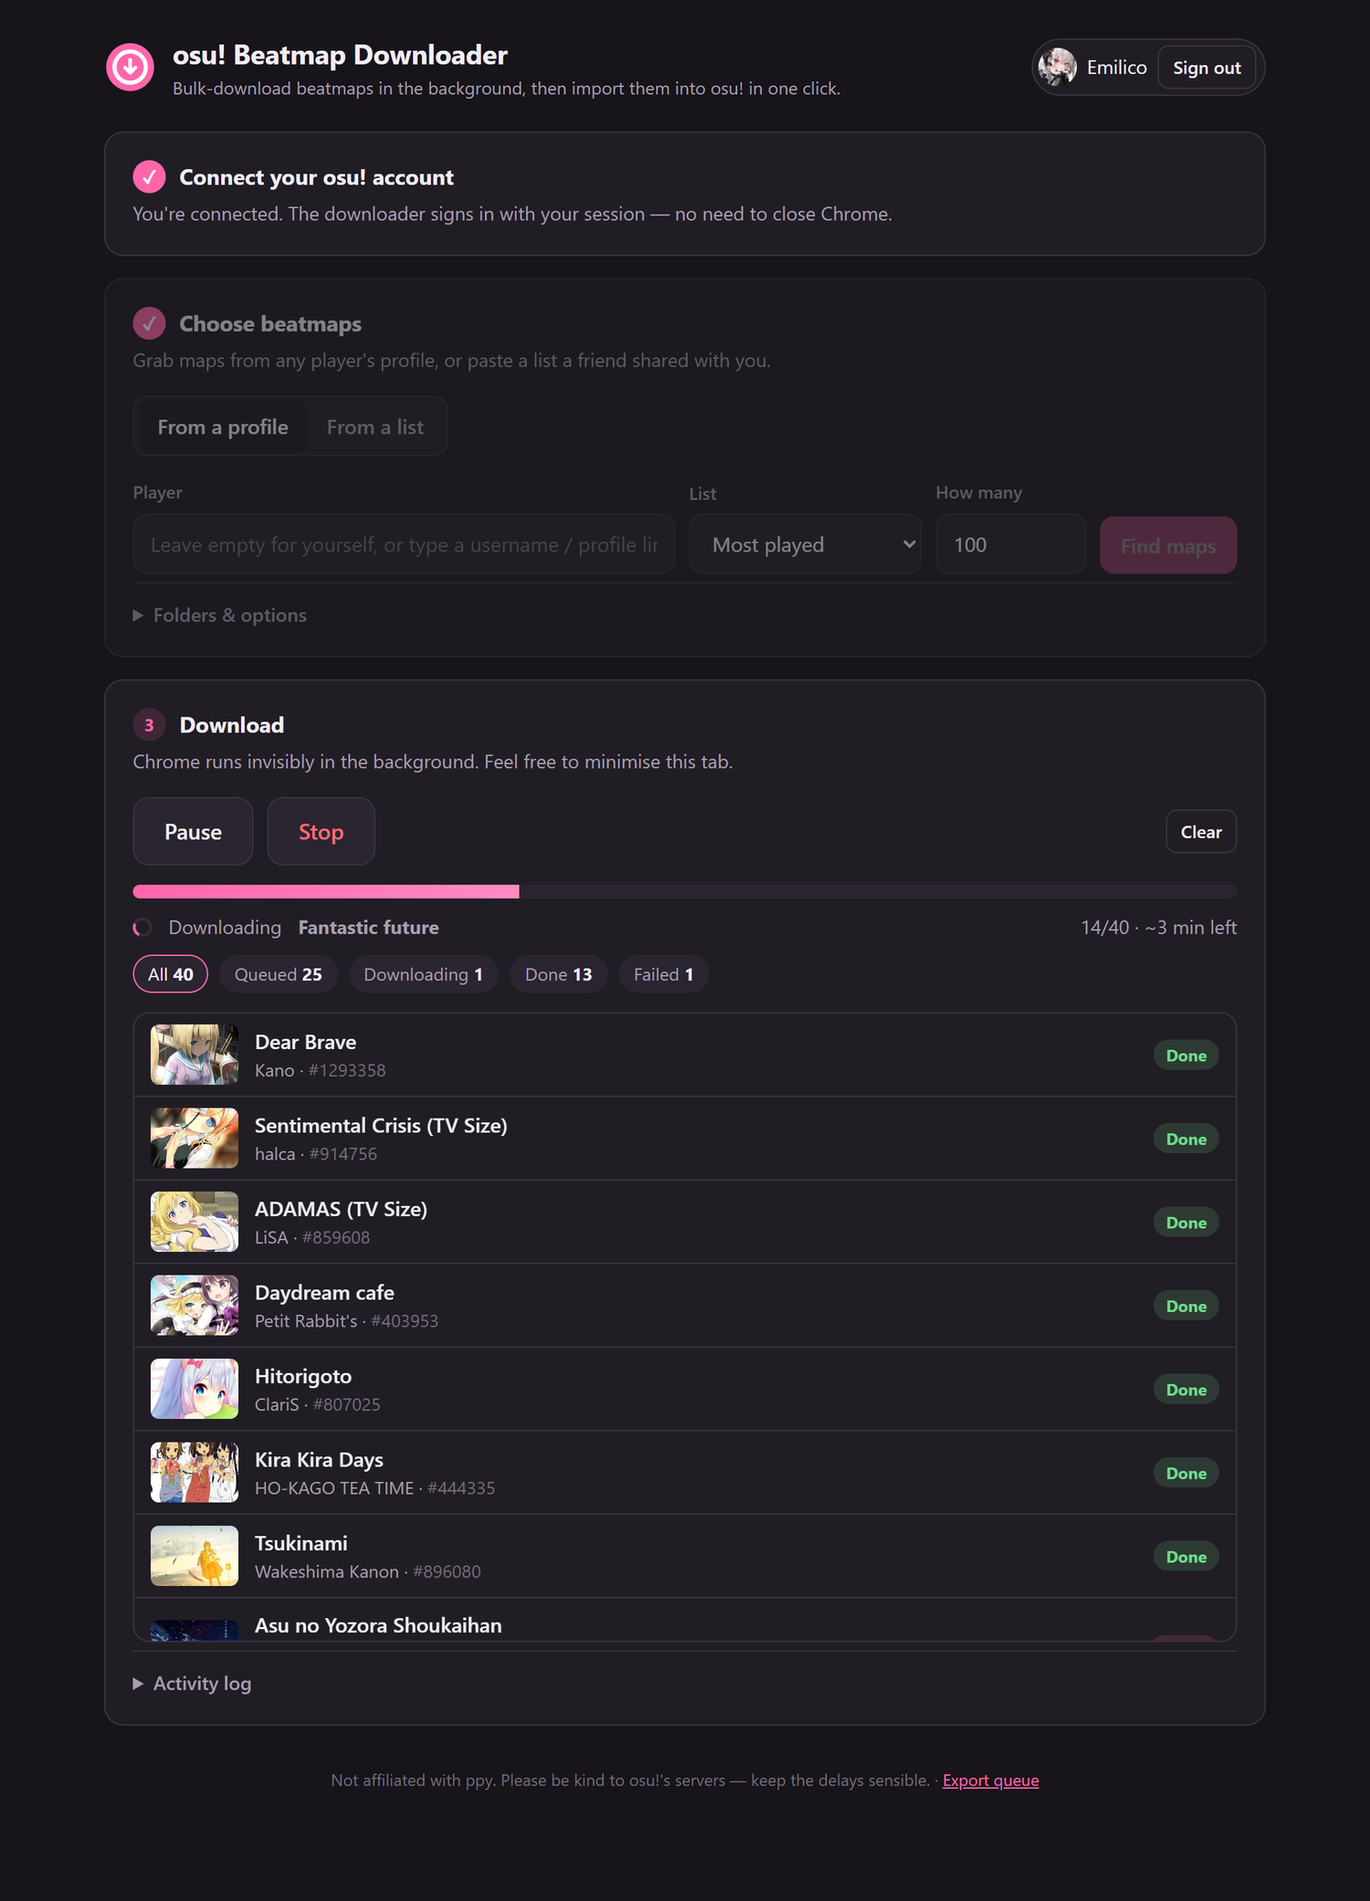
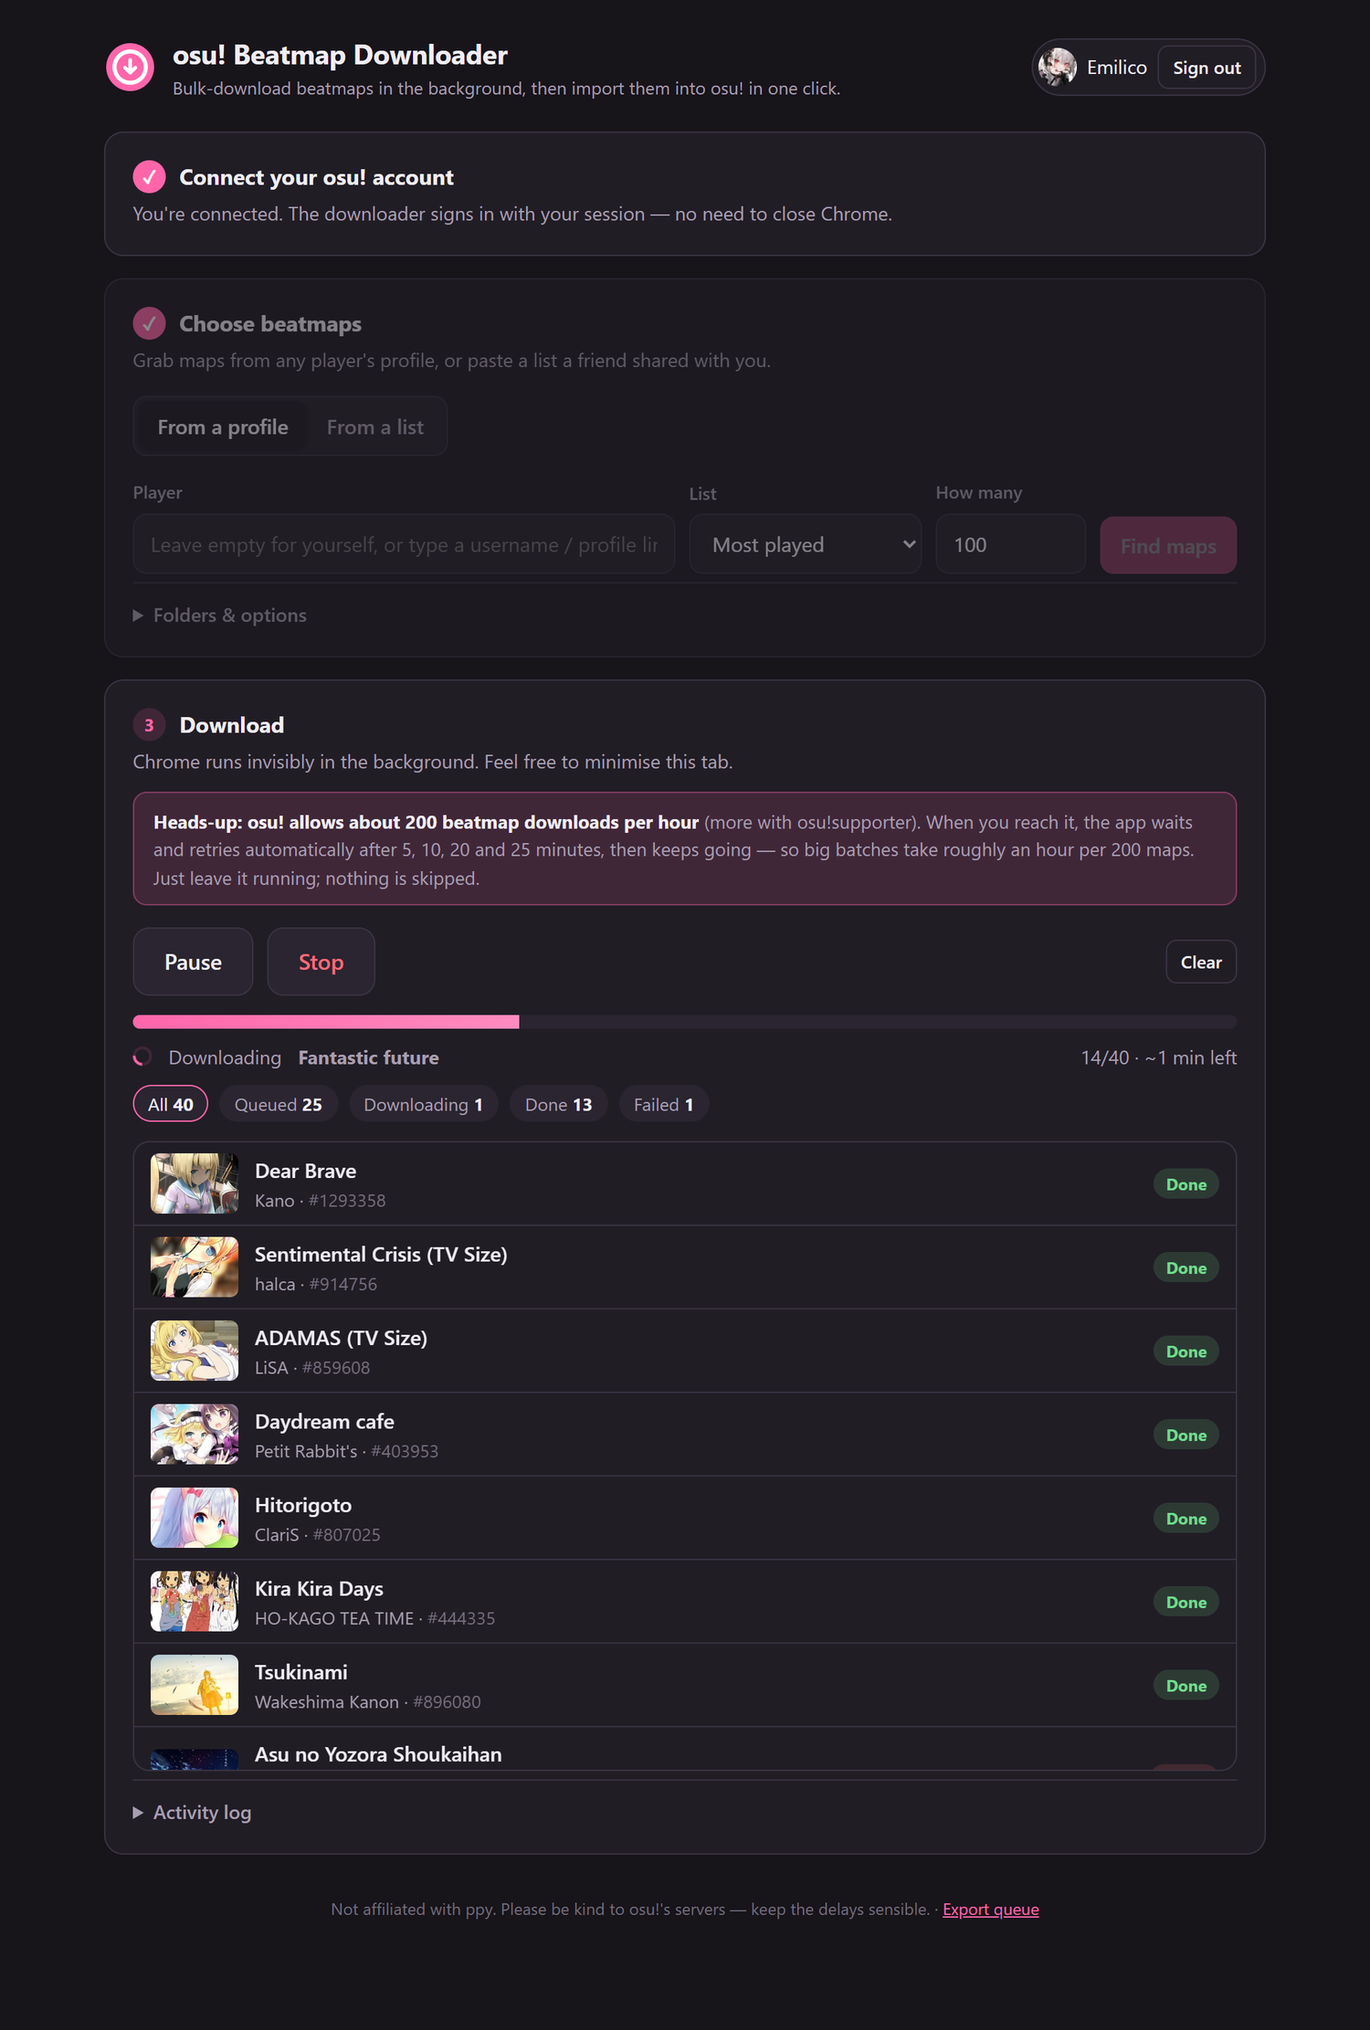
Retry osu!'s hourly download limit on a 5/10/20/25 min cycle
osu! allows about 200 beatmap downloads per rolling hour (more for
supporters) and answers 429 "too many requests" beyond that.

- When refused, keep the same map and retry after 5, 10, 20 and 25
  minutes (an hour in total), then start the cycle again
- Detect the refusal page right away instead of after 10 seconds
- Time-left estimate now simulates the waits between batches, and
  learns a higher limit for supporters
- Status line shows when the next retry happens
- Disclaimer about the limit in the app, the README and the release
  readme; refreshed screenshots

diff --git a/web/index.html b/web/index.html
@@ -112,13 +112,18 @@ kbd { background: var(--panel); border: 1px solid var(--line); border-bottom-wid
   line-height: 1.5; text-align: left; box-shadow: 0 8px 24px rgba(0,0,0,.3); cursor: default; }
 .tip:hover .tip-body, .tip:focus .tip-body, .tip:focus-within .tip-body { display: block; }
 
+.notice { background: var(--pink-soft); border: 1px solid color-mix(in srgb, var(--pink) 35%, transparent);
+  border-radius: 10px; padding: 10px 14px; font-size: 13.5px; color: var(--muted); margin: -4px 0 16px; }
+.notice b { color: var(--text); }
+.waiting { color: var(--yellow); }
+
 .progress { height: 10px; background: var(--panel-2); border-radius: 999px; overflow: hidden; margin: 14px 0 10px; }
 .progress > div { height: 100%; width: 0; background: linear-gradient(90deg, var(--pink), var(--pink-2)); transition: width .4s; }
 .stats { display: flex; gap: 8px; flex-wrap: wrap; font-size: 13px; }
 .stat { background: var(--panel-2); border-radius: 999px; padding: 3px 10px; color: var(--muted); border: 1px solid transparent; cursor: pointer; }
 .stat b { color: var(--text); font-variant-numeric: tabular-nums; }
 .stat.on { border-color: var(--pink); color: var(--text); }
-.now { display: flex; gap: 12px; align-items: center; min-height: 20px; color: var(--muted); font-size: 14px; }
+.now { display: flex; flex-wrap: wrap; gap: 4px 12px; align-items: center; min-height: 20px; color: var(--muted); font-size: 14px; }
 .spinner { width: 14px; height: 14px; border: 2px solid var(--pink-soft); border-top-color: var(--pink); border-radius: 50%; animation: spin .8s linear infinite; flex: none; }
 @keyframes spin { to { transform: rotate(360deg); } }
 
@@ -311,7 +316,7 @@ footer { color: var(--dim); font-size: 12px; text-align: center; margin-top: 30p
         <div><label class="f">Seconds between maps</label><input type="number" min="0" step="0.5" data-opt="delay"></div>
         <div><label class="f">Rest after every … maps</label><input type="number" min="1" data-opt="batch"></div>
         <div><label class="f">Rest length (s)</label><input type="number" min="0" data-opt="rest"></div>
-        <div><label class="f">Cooldown when rate limited (s)</label><input type="number" min="0" data-opt="cooldown"></div>
+        <div><label class="f">Pause after 3 failures in a row (s)</label><input type="number" min="0" data-opt="cooldown"></div>
       </div>
       <div class="help">
         <b>Missing some maps?</b> Turn on <i>Show explicit content</i> in your
@@ -327,6 +332,11 @@ footer { color: var(--dim); font-size: 12px; text-align: center; margin-top: 30p
 <section class="card" id="step3">
   <h2><span class="n" id="n3">3</span> Download</h2>
   <p class="sub">Chrome runs invisibly in the background. Feel free to minimise this tab.</p>
+  <div class="notice">
+    <b>Heads-up: osu! allows about 200 beatmap downloads per hour</b> (more with osu!supporter).
+    When you reach it, the app waits and retries automatically after 5, 10, 20 and 25 minutes, then keeps going —
+    so big batches take roughly an hour per 200 maps. Just leave it running; nothing is skipped.
+  </div>
   <div class="row" style="align-items:center">
     <button class="btn primary big" id="startBtn" onclick="act('start')">Start downloading</button>
     <button class="btn big hidden" id="pauseBtn" onclick="act('pause')">Pause</button>
@@ -523,11 +533,24 @@ function render() {
   if (S.busy) now = `<div class="spinner"></div>${esc(S.busy)}`;
   else if (S.running && S.paused) now = '⏸ Paused';
   else if (S.running) {
-    const perMap = (S.opts.delay || 0) + 4 + (S.opts.rest || 0) / (S.opts.batch || 60);
-    const eta = fmtTime((c.queued || 0) * perMap);
-    now = `<div class="spinner"></div>` + (cur ? `Downloading <b>${esc(cur.title || '#' + cur.id)}</b>` : 'Working…')
-        + ` <span class="grow"></span> ${finished}/${want}${eta ? ' · ~' + eta + ' left' : ''}`;
-  } else if (total) now = `${total} map${total === 1 ? '' : 's'} in queue` + (c.have ? ` · ${c.have} skipped because you already have them` : '');
+    const j = S.job || {};
+    const eta = fmtTime(j.eta);
+    const etaText = eta ? ` · ~${eta} left` + (j.hourly_limit && (c.queued || 0) > 0 && j.eta > 3600 ? ' incl. osu! limit waits' : '') : '';
+    if (j.limited && j.retry_at) {
+      const at = new Date(j.retry_at * 1000).toLocaleTimeString([], {hour: 'numeric', minute: '2-digit'});
+      now = `<div class="spinner"></div><span class="waiting">osu!'s hourly download limit reached — retrying at <b>${at}</b> (attempt ${j.retry_attempt} of ${j.retry_attempts})</span>`
+          + ` <span class="grow"></span> ${finished}/${want}${etaText}`;
+    } else {
+      now = `<div class="spinner"></div>` + (cur ? `Downloading <b>${esc(cur.title || '#' + cur.id)}</b>` : 'Working…')
+          + ` <span class="grow"></span> ${finished}/${want}${etaText}`;
+    }
+  } else if (total) {
+    const n = c.queued || 0;
+    // ~6 s per map, plus an hour's wait for every 200 maps after the first 200
+    const est = n ? fmtTime(n * ((S.opts.delay || 0) + 3) + Math.floor((n - 1) / 200) * 3600) : '';
+    now = `${total} map${total === 1 ? '' : 's'} in queue` + (c.have ? ` · ${c.have} skipped because you already have them` : '')
+        + (est ? ` · about ${est} to download` : '');
+  }
   $('now').innerHTML = now;
   $('n3').classList.toggle('ok', !S.running && !!c.done && !c.queued);
 

diff --git a/osu_core.py b/osu_core.py
@@ -192,6 +192,24 @@ def _duration(seconds):
     return f"{seconds / 60:.0f} min" if seconds >= 60 else f"{seconds:.0f} s"
 
 
+# osu! allows a fixed number of downloads per rolling hour (200 for regular accounts,
+# more for osu!supporters). When it refuses, retry on this cycle — it adds up to an hour,
+# so the 4th retry lands after the window has rolled over. Then start again at 5 min.
+QUOTA_RETRY_WAITS = (5 * 60, 10 * 60, 20 * 60, 25 * 60)
+DEFAULT_HOURLY_LIMIT = 200
+
+
+def _resume_time(refused_at, batch_start):
+    """First retry (on the QUOTA_RETRY_WAITS cycle) after the batch's hour has rolled over."""
+    free_at = batch_start + 3600
+    t, i = refused_at, 0
+    while True:
+        t += QUOTA_RETRY_WAITS[i % len(QUOTA_RETRY_WAITS)]
+        i += 1
+        if t >= free_at:
+            return t
+
+
 class Downloader:
     """Runs a download queue on a background thread and reports through callbacks."""
 
@@ -205,6 +223,15 @@ class Downloader:
         self.stop_flag = threading.Event()
         self.pause_flag = threading.Event()
         self.warned_client = False
+        # progress/ETA bookkeeping, read by the UI
+        self.batch_done = 0             # downloads since the last time osu! let us resume
+        self.batch_started_at = None    # time of the batch's first download
+        self.hourly_limit = DEFAULT_HOURLY_LIMIT  # learned from the first refusal
+        self.limit_learned = False
+        self.quota_hit_at = None        # when osu! started refusing (None = not limited)
+        self.retry_at = None            # when the next retry happens while limited
+        self.retry_attempt = 0
+        self.per_map = None             # average seconds per successful map
         self.thread = threading.Thread(target=self._run, daemon=True)
 
     def start(self):
@@ -213,6 +240,39 @@ class Downloader:
     def stop(self):
         self.stop_flag.set()
         self.pause_flag.clear()
+
+    def status(self, remaining):
+        """Progress info for the UI, including an ETA that accounts for osu!'s hourly limit."""
+        limit = self.hourly_limit
+        if not self.limit_learned and self.batch_done > limit:
+            limit = None  # past the default without being refused: probably a supporter
+        per_map = self.per_map or float(self.opts.get("delay", 3)) + 3
+        now = time.time()
+        t, left = now, remaining
+        if self.quota_hit_at:
+            batch_start = self.batch_started_at or self.quota_hit_at - 3600
+            t = batch_start = max(now, _resume_time(self.quota_hit_at, batch_start))
+            cap = limit or left
+        else:
+            batch_start = self.batch_started_at or now
+            cap = left if limit is None else max(0, limit - self.batch_done)
+        while True:
+            n = min(left, cap)
+            t += n * per_map
+            left -= n
+            if left <= 0 or not limit:
+                break
+            resumed = _resume_time(t, batch_start)  # osu! refuses at t; wait for the window
+            t = batch_start = resumed
+            cap = limit
+        return {
+            "eta": round(t - now),
+            "hourly_limit": limit,
+            "limited": bool(self.quota_hit_at),
+            "retry_at": self.retry_at,
+            "retry_attempt": self.retry_attempt,
+            "retry_attempts": len(QUOTA_RETRY_WAITS),
+        }
 
     def _sleep(self, seconds):
         """Interruptible sleep that also honours pause."""
@@ -256,7 +316,7 @@ class Downloader:
         batch, rest = int(self.opts.get("batch", 60)), float(self.opts.get("rest", 15))
         cooldown = float(self.opts.get("cooldown", 300))
         timeout = float(self.opts.get("timeout", 90))
-        since_rest, fails_in_row, quota_hits = 0, 0, 0
+        since_rest, fails_in_row = 0, 0
 
         for item in self.items:
             if self.stop_flag.is_set():
@@ -272,22 +332,43 @@ class Downloader:
                 return
 
             self._set(item, "downloading")
+            started = time.time()
             ok, reason = self._download_one(driver, item, timeout)
             since_rest += 1
+            attempt = 0
             while not ok and "quota" in reason.lower():
-                # osu! is refusing downloads for now: wait it out and retry the same map,
-                # backing off (5 min, 10, 20 … up to an hour) until osu! lets us continue
-                wait = min(cooldown * 2 ** quota_hits, 3600)
-                quota_hits += 1
+                # osu!'s hourly download limit: keep this map and retry it on a 5/10/20/25 min cycle
+                if not self.quota_hit_at:
+                    self.quota_hit_at = time.time()
+                    # only learn *higher* limits (supporters): a run started partway through
+                    # an hour sees fewer than the real allowance before being refused
+                    if self.batch_done > self.hourly_limit:
+                        self.hourly_limit = self.batch_done
+                    self.limit_learned = True
+                wait = QUOTA_RETRY_WAITS[attempt % len(QUOTA_RETRY_WAITS)]
+                attempt += 1
+                self.retry_attempt = (attempt - 1) % len(QUOTA_RETRY_WAITS) + 1
+                self.retry_at = time.time() + wait
                 self._set(item, "queued", error="")
-                self.log("warn", f"osu!'s download quota was reached. Waiting {_duration(wait)}, "
-                                 f"then retrying (attempt {quota_hits}).")
+                self.log("warn", f"osu!'s hourly download limit was reached. Retrying in {_duration(wait)} "
+                                 f"(at {time.strftime('%H:%M', time.localtime(self.retry_at))}, "
+                                 f"attempt {self.retry_attempt} of {len(QUOTA_RETRY_WAITS)}).")
                 if not self._sleep(wait):
                     return
+                self.retry_at = None
                 self._set(item, "downloading")
+                started = time.time()
                 ok, reason = self._download_one(driver, item, timeout)
+            if ok and self.quota_hit_at:
+                self.log("ok", "osu! is accepting downloads again.")
+                self.quota_hit_at, self.retry_attempt, self.batch_done = None, 0, 0
+                self.batch_started_at = None
             if ok:
-                fails_in_row = quota_hits = 0
+                fails_in_row = 0
+                self.batch_done += 1
+                self.batch_started_at = self.batch_started_at or started
+                took = time.time() - started + delay
+                self.per_map = took if self.per_map is None else self.per_map * 0.9 + took * 0.1
                 self._set(item, "done", file=ok, error="")
                 if self.opts.get("auto_open"):
                     self._import(ok)
@@ -353,9 +434,11 @@ class Downloader:
             done = find_osz(self.folder, sid)
             if done:
                 return done, ""
-            if time.time() - start > 10 and not any(self.folder.glob("*.crdownload")):
-                text = (driver.execute_script("return document.body ? document.body.innerText.slice(0, 500) : ''") or "").lower()
-                if "quota" in text or "too many" in text:
+            if time.time() - start > 1 and not any(self.folder.glob("*.crdownload")):
+                # a refused download replaces the page with osu!'s "too many requests" page
+                text = (driver.execute_script(
+                    "return document.title + ' ' + (document.body ? document.body.innerText.slice(0, 500) : '')") or "").lower()
+                if "quota" in text or "too many requests" in text:
                     driver.back()
                     return None, "osu! download quota reached."
             time.sleep(0.5)

diff --git a/app.py b/app.py
@@ -168,6 +168,8 @@ class State:
                 "clients": self.clients(),
                 "queue": self.queue, "counts": counts, "busy": self.busy,
                 "running": self.running(),
+                "job": self.job.status(counts.get("queued", 0) + counts.get("downloading", 0))
+                       if self.running() else None,
                 "paused": bool(self.job and self.job.pause_flag.is_set()),
                 "logs": [l for l in self.logs if l["i"] >= log_since],
             }

diff --git a/README.md b/README.md
@@ -40,7 +40,7 @@ So far, this is still the best way that I know of to recover lost beatmaps folde
 - **Runs invisibly.** Chrome works in the background (headless). No windows popping up, no need to close your browser first.
 - **Skips what you already have.** Maps in your osu!stable `Songs` folder, in the download folder, or downloaded in an earlier session.
 - **One-click import** into **osu!stable** or **osu!lazer** — or automatically as each map finishes.
-- **Plays nice with osu!'s limits.** Rests between batches and cools down on its own when osu! says you've hit the download quota. Pause, resume, stop and retry failed maps any time.
+- **Handles osu!'s hourly limit for you.** When osu! stops accepting downloads, the app waits and retries on its own, and the time estimate includes those waits. Pause, resume, stop and retry failed maps any time.
 - **Portable.** Unzip and run. Settings, downloads and everything else stay inside the app's folder.
 - **Share your library.** Export your Songs folder as an ID list your friends can load.
 
@@ -55,6 +55,13 @@ So far, this is still the best way that I know of to recover lost beatmaps folde
 > Click **More info → Run anyway**. The full source is right here if you'd like to check it — or [run it from source](#run-from-source).
 
 A black window opens (that's the app — keep it open while downloading, close it to quit) and your browser shows the interface.
+
+> [!IMPORTANT]
+> **osu! allows about 200 beatmap downloads per hour** (osu!supporters get more). This is a limit on osu!'s side
+> and there's no way around it. When you reach it, the app waits and retries automatically after **5, 10, 20 and
+> 25 minutes** (an hour in total), then carries on — repeating that cycle if it's still blocked. Big batches
+> therefore take roughly **an hour per 200 maps**: 1,000 maps is about 5 hours. Just leave it running; nothing is
+> skipped, and the time-left estimate already includes the waits.
 
 ## How to use it
 
@@ -95,7 +102,8 @@ that contains `osu!.exe`. If the one you chose isn't installed, it falls back to
 
 ### 3. Download
 
-Hit **Download**. You can minimise the tab — the list, progress bar and time estimate keep updating.
+Hit **Download**. You can minimise the tab — the list, progress bar and time estimate keep updating. If osu!'s hourly
+limit kicks in, the status line shows when the next retry happens.
 
 <img src="docs/images/queue.png" width="660" alt="Download step with a queue of 40 maps ready to download">
 
@@ -108,7 +116,7 @@ When it's done, click **Import all into osu!** (or tick *Import as they finish* 
 | Problem | Fix |
 |---|---|
 | **"No download button"** for some maps | Turn on **Show explicit content** in your [osu! account settings](https://osu.ppy.sh/home/account/edit). Otherwise the map may have been removed. |
-| **"osu!'s download quota was reached"** | osu! limits how many maps you can download in a while. The app waits (5 min, then 10, 20 … up to an hour) and retries the same map on its own — just leave it running. |
+| **"osu!'s hourly download limit reached"** | Expected after about 200 maps in an hour. The app retries the same map after 5, 10, 20 and 25 minutes and continues once osu! allows it — just leave it running. Skipping to other maps doesn't help: the limit is per account, not per map. |
 | **"osu! didn't accept that session cookie"** | The cookie expired or was copied incompletely. Grab a fresh one. |
 | **Chrome won't start** | Make sure Google Chrome is installed and up to date. The first run needs internet to fetch a matching ChromeDriver. |
 | **Can't save settings** | The app's folder must be writable — don't put it in *Program Files*. (It will fall back to `%LOCALAPPDATA%\osu! Beatmap Downloader`.) |
